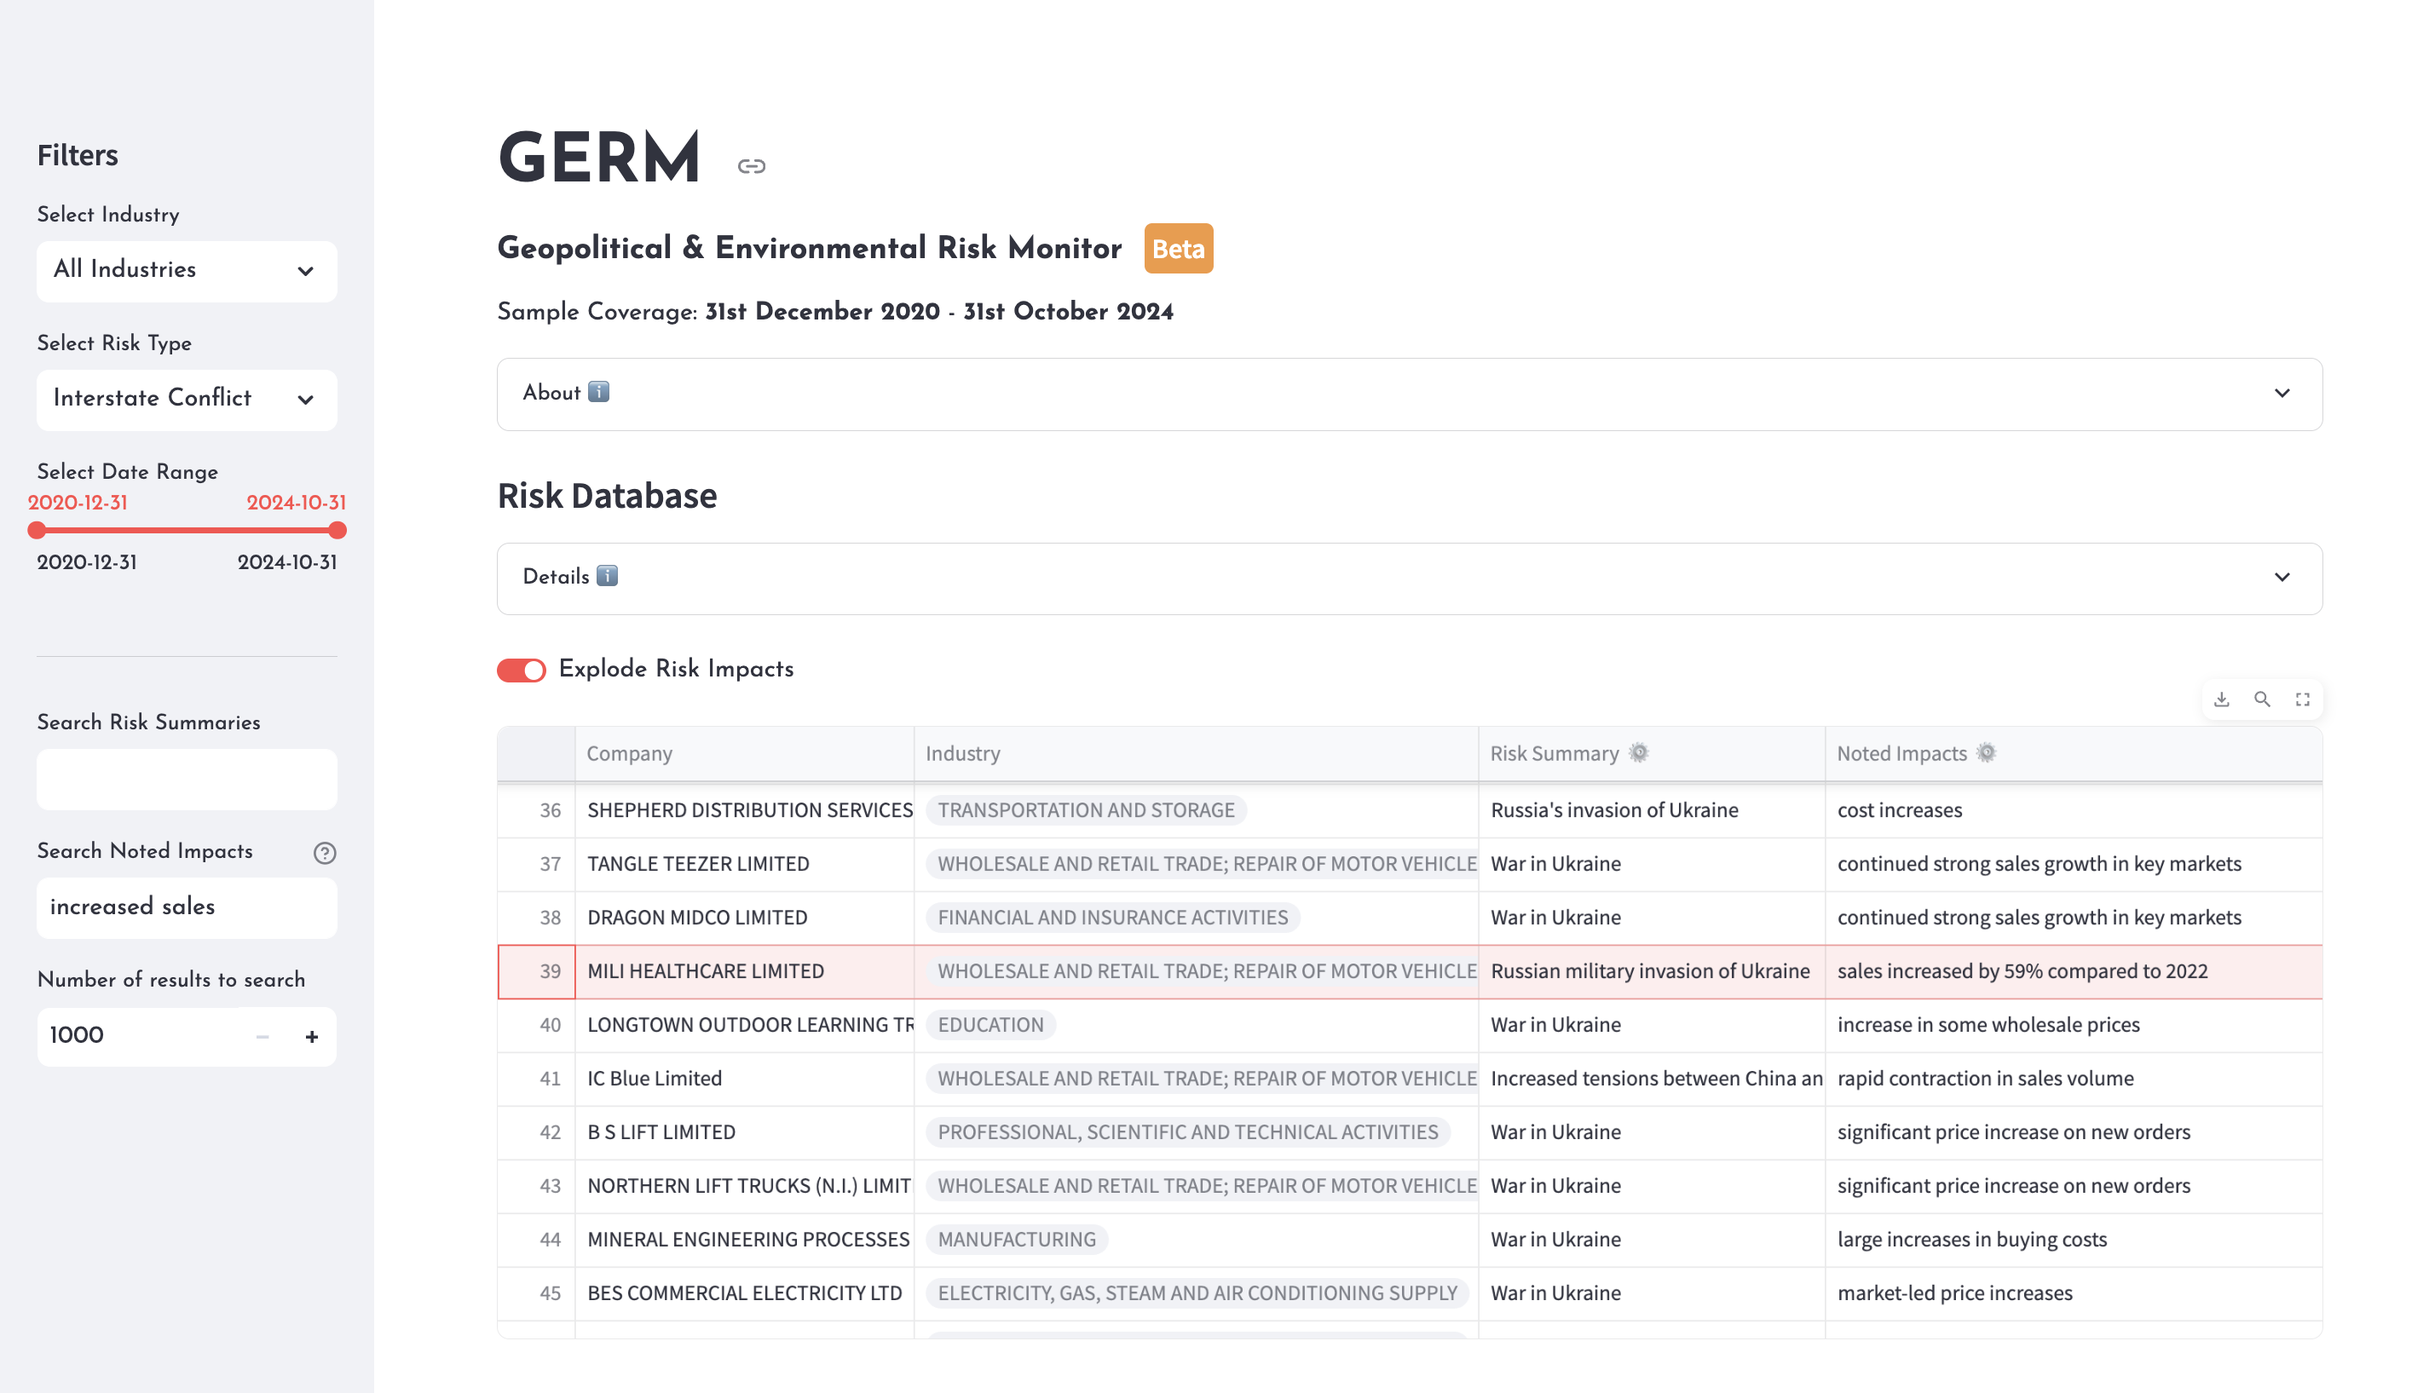
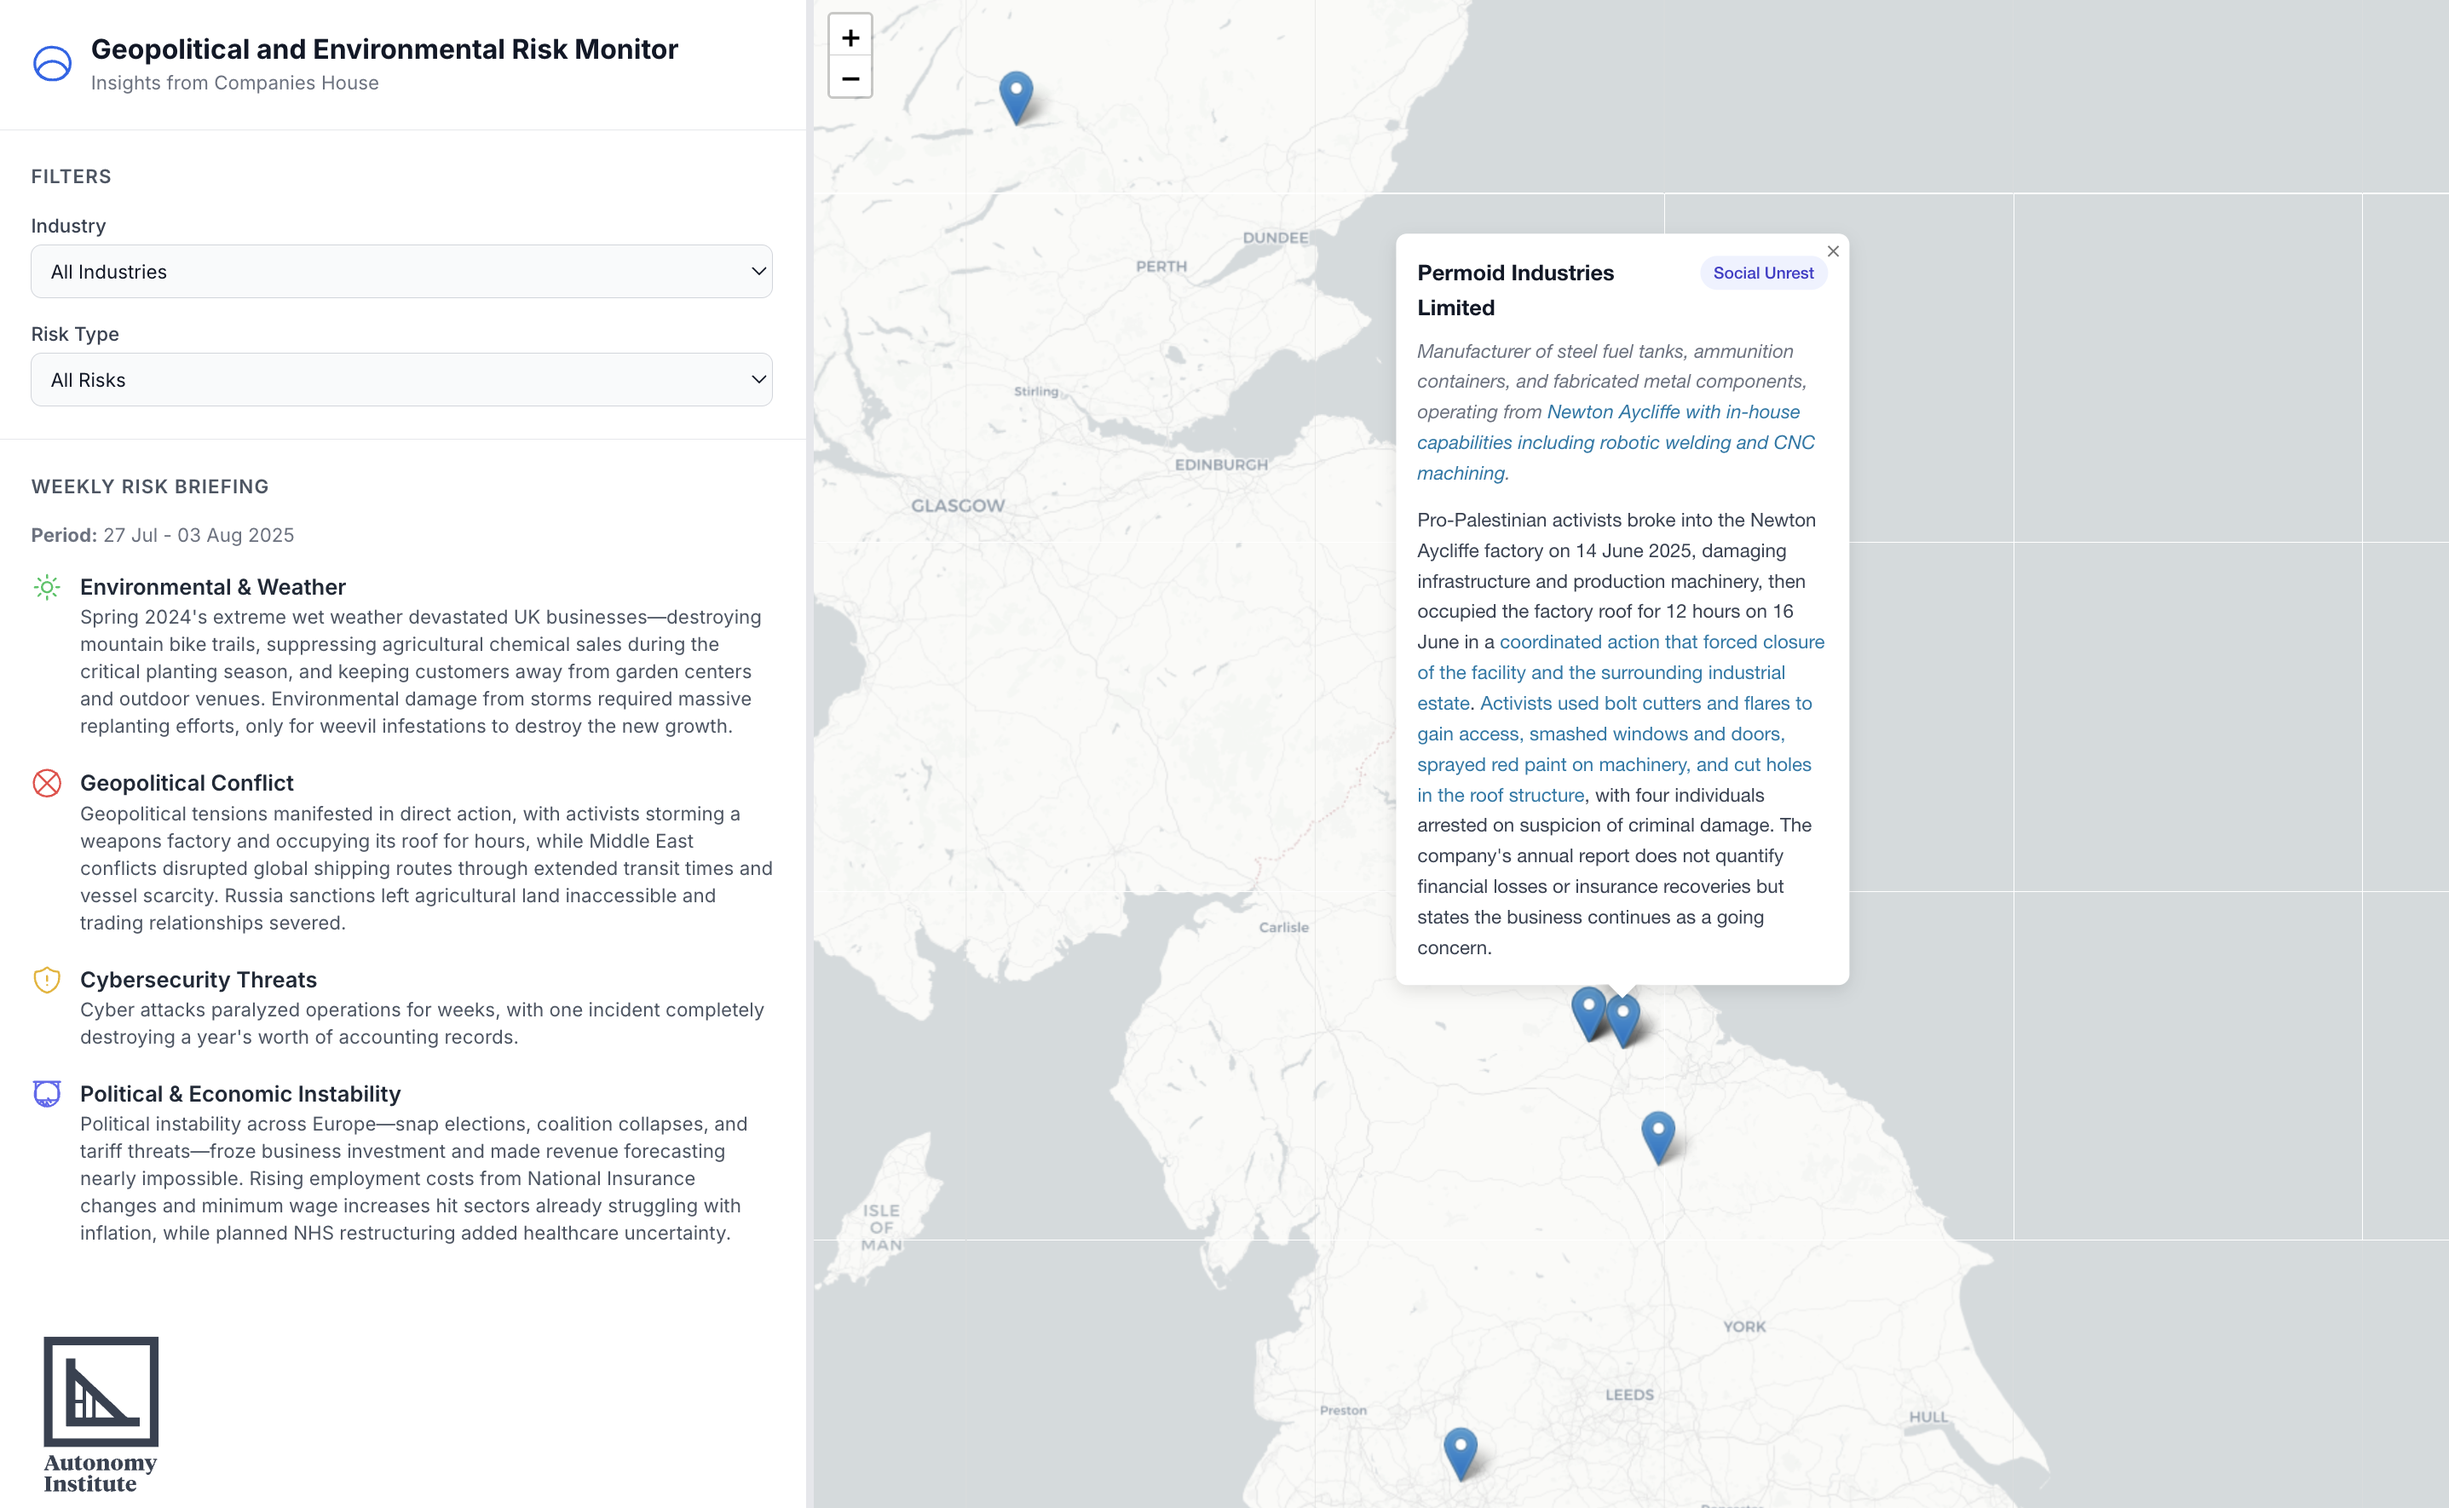
updated images

diff --git a/_projects/germ.md b/_projects/germ.md
@@ -11,7 +11,7 @@ hero_image: '/images/projects/germ/warthog.jpg'
 
 The UK has 3 million+ active companies filing annual reports at Companies House. Distributed unevenly throughout these reports are interesting disclosures revealing some of the myriad ways in which geopolitics and climate are increasingly shaping the economy.
 
-To explore this previously inaccessible region of reporting, I built a geopolitical and environment risk monitor (GERM) to ingest tens of thousands of documents daily and extract and classify these passages of text, cluster them by impact, and map them geospatially within a Streamlit application. 
+To explore this previously inaccessible region of reporting, I'm developing a geopolitical and environment risk monitor (GERM) to ingest tens of thousands of documents daily and extract and classify these passages of text, cluster them by impact, and map them geospatially within a web app. 
 
 This new capability allows me to detect nuanced signals that were previously lost in the noise. It has already surfaced surprising corporate cohorts, such as [firms reporting upside from war](https://adu.autonomy.work/posts/2025_02_20_crisis-and-commerce/){:target="_blank" rel="noopener noreferrer"} or those [disclosing specific types of criminal activity](https://adu.autonomy.work/posts/2025_02_11_exceptional-items/){:target="_blank" rel="noopener noreferrer"}, which would be nearly impossible to find with conventional search methods.
 
@@ -22,5 +22,3 @@ This new capability allows me to detect nuanced signals that were previously los
 I’m currently using the tool to test several concepts: using embeddings to surface “islands of coalition” (firms facing similar risks across sectors/places), applying LLMs for advanced concept filtration (e.g., anti-fragility, adaptation, supply-chain diversification, business-model change), and testing interactive planning simulations that infer company-level risk profiles and generate scenario narratives, fusing filings with external signals and, where useful, feeding agent-based models.
 
 **[Blog Post](https://adu.autonomy.work/posts/2024_03_23_GERM/){:target="_blank" rel="noopener noreferrer"}**
-**[Demo](https://show.autonomy.work/GERM/){:target="_blank" rel="noopener noreferrer"}**
-
